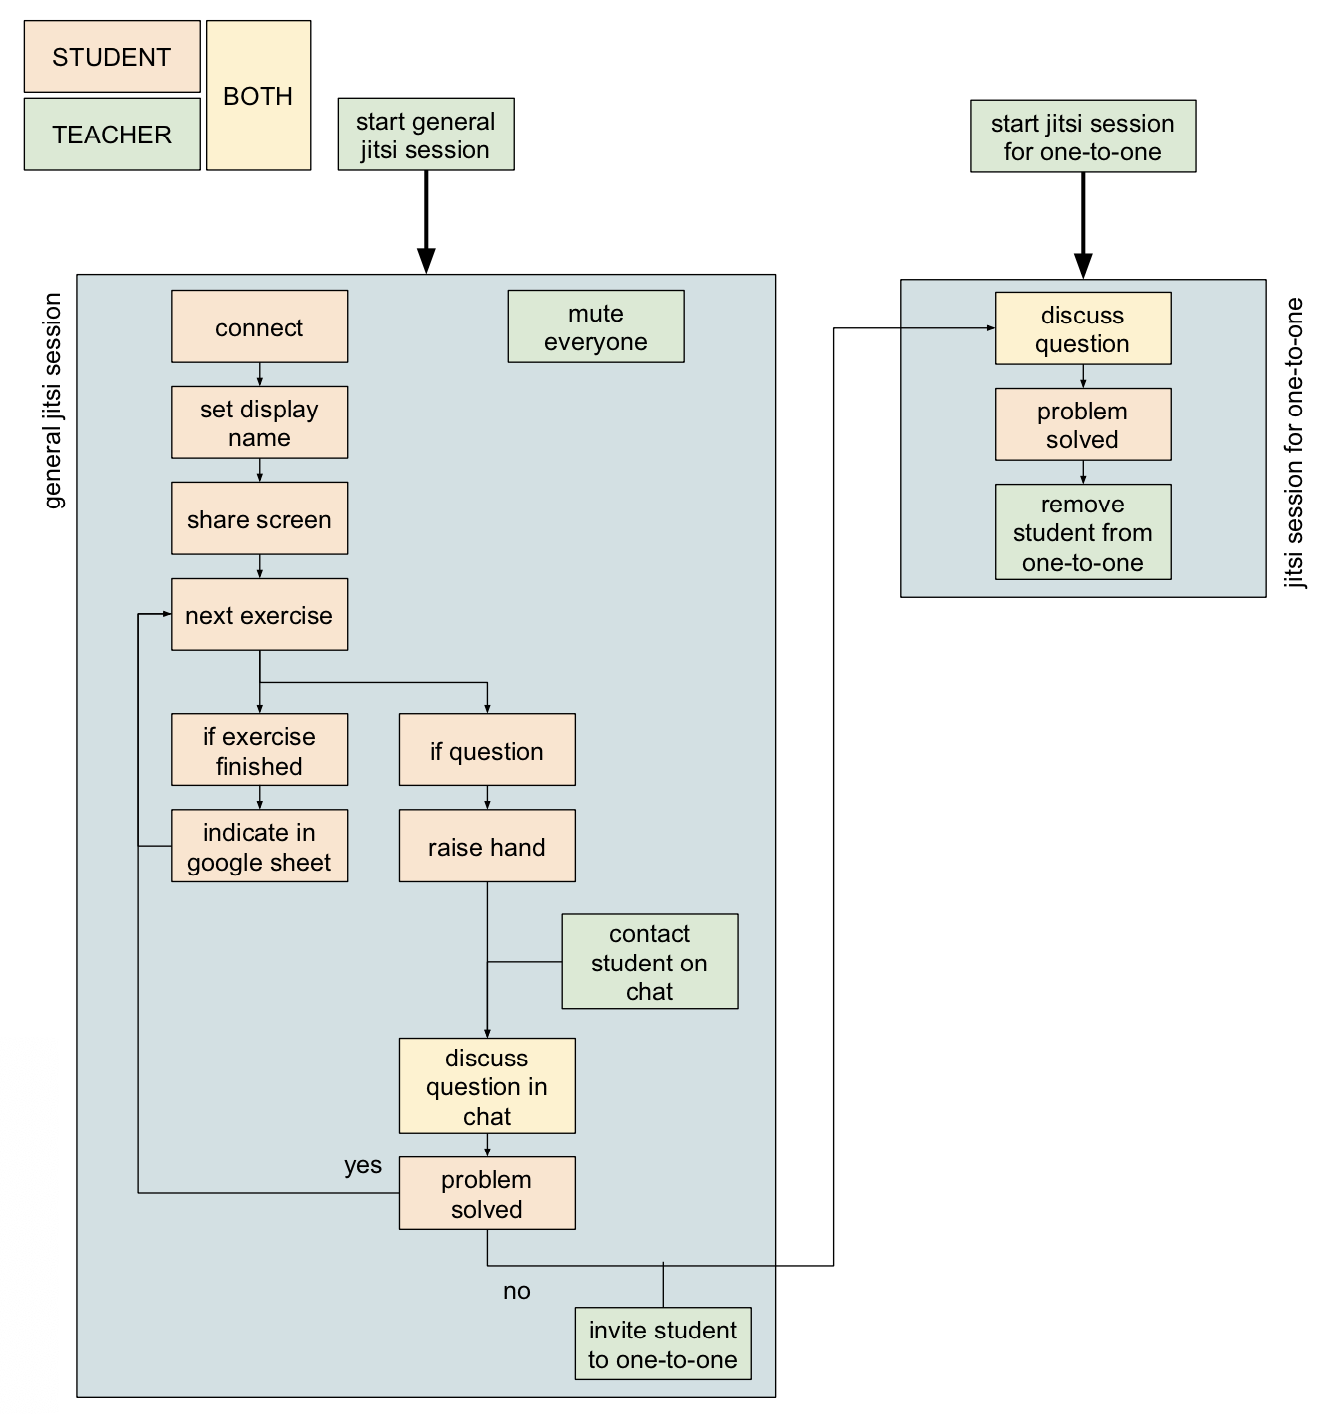
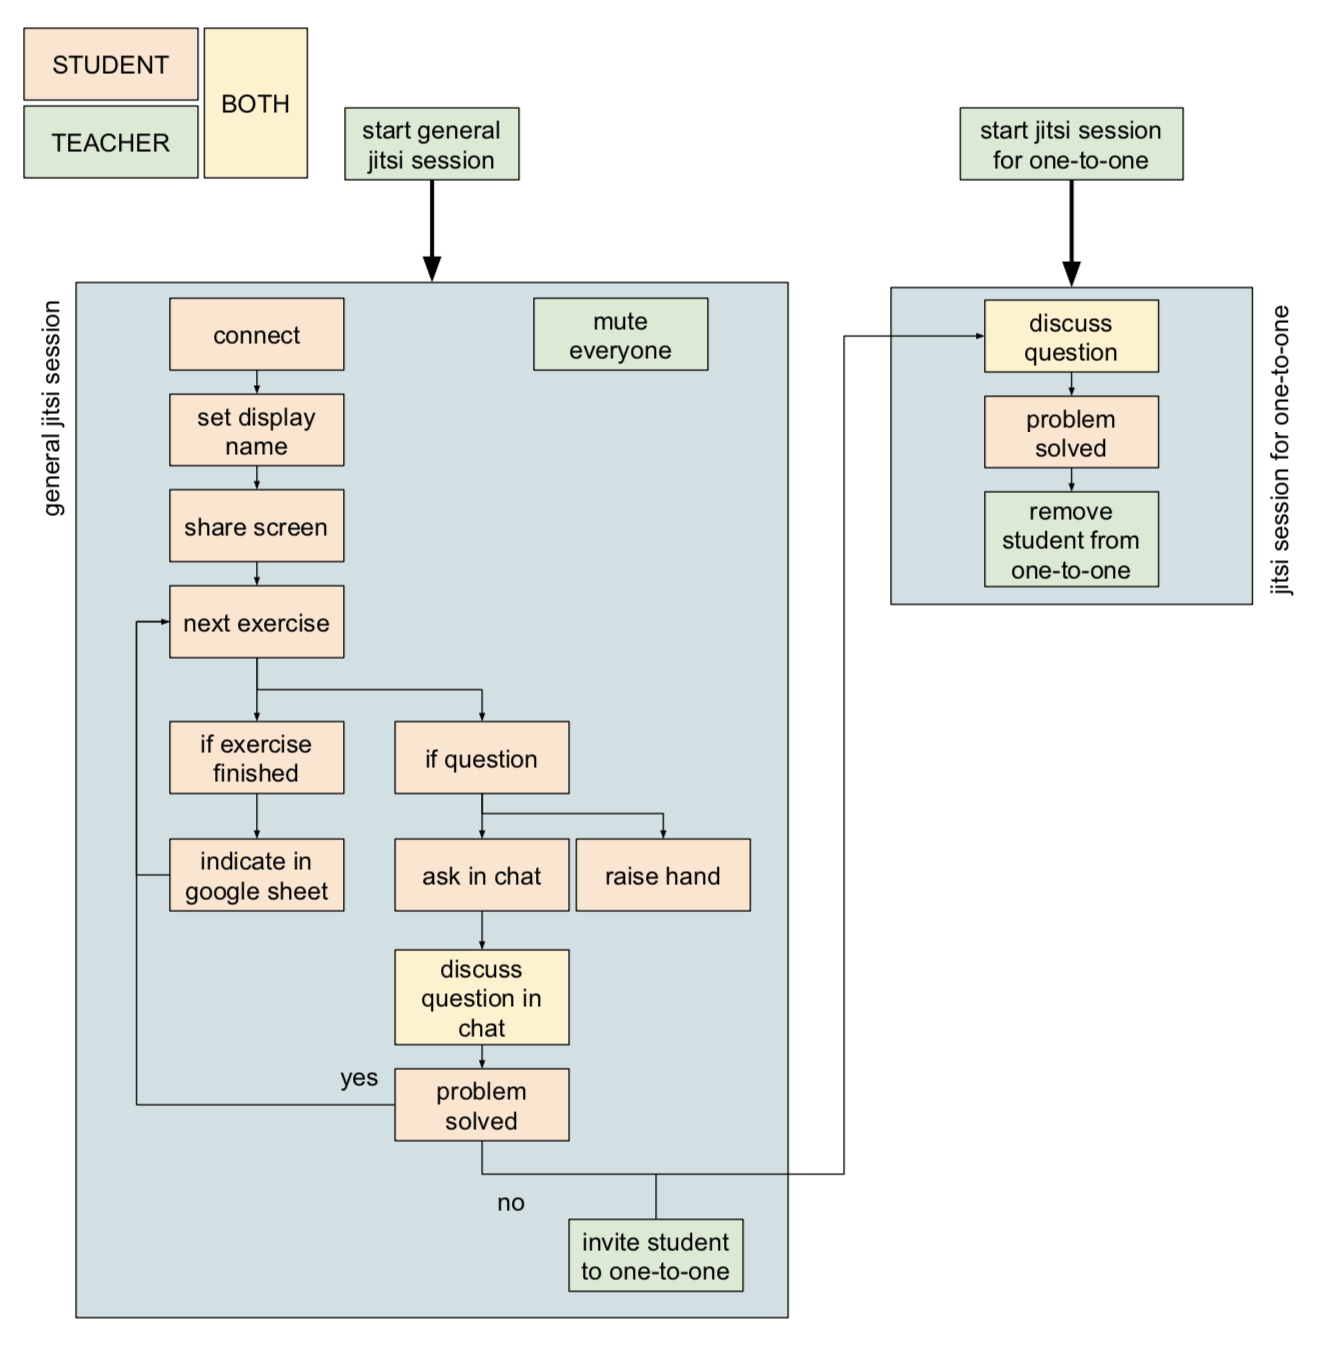
Updated jitsi post

Changed region(s): [[0.0, 0.0, 0.9939, 0.9956], [0.0932, 0.8089, 0.1242, 0.84]]

diff --git a/_posts/2020-04-01-online-exercise-sessions.md b/_posts/2020-04-01-online-exercise-sessions.md
@@ -38,20 +38,19 @@ This is what jitsi looks like:
 
 <img src="{{ site.baseurl }}/assets/jitsi-screenshot.png" width="400" />
 
-### Preparatory work
-- Get myself a good internet connection...
-- Create a **google sheet to track progress of all students across the exercises**, and share it with all students. One row per student, one column per exercise. I set auto-formatting on all cells so that they get a background colour when something is put into the cell. As students are going through the exercises, they should indicate on the sheet when each specific exercise is completed. This makes it possible to identify who is lagging behind. Towards the end of the session, you hope the sheet will look like this:
+### Our exercise session workflow
+What we need:
+- **several jitsi sessions**: one general one, and one per TA
+- a **google sheet to track progress of all students across the exercises**, and share it with all students. One row per student, one column per exercise. I set auto-formatting on all cells so that they get a background colour when something is put into the cell. As students are going through the exercises, they should indicate on the sheet when each specific exercise is completed. This makes it possible to identify who is lagging behind. Towards the end of the session, you hope the sheet will look like this:
 
 ![vega progress]({{ site.baseurl }}/assets/vega-progress.png)
 
-### During the session itself
-
-Here's the overview:
+Here's the overview of what happens during a session:
 
 ![jitsi workflow]({{ site.baseurl }}/assets/jitsi-workflow.png)
 
 - The teacher **starts a general jitsi meeting** by sharing a URL with the students like this: https://meet.jit.si/FashionableRecruitsMobilizeHalf. To start yours, just go to http://meet.jit.si to get an automatically generated URL, or just append a quite-specific string to the main URL itself. A nice consequence of how it works, is that you can re-use the same URL for every session of a given course.
-- Each member of the teaching team creates an **additional separate jitsi meeting for one-on-one discussions** with the students. Make sure to mute your sound in that one.
+- Each member of the teaching team creates an **additional separate jitsi meeting for one-on-one discussions** with the students. Make sure to mute your sound in that one at first.
 - I also **connect with an ipad** that will serve as my monitoring device for who raises their hand, etc. Sound and video switched off, and a _headphone plugged into the ipad_ so that it's silent as well.
 - Each **student connects** to the meeting, and should:
   - set their **display name** (by clicking on the 3 dots in the bottom right, then on `Settings`, and `Profile`; see the screenshot above)
@@ -61,24 +60,41 @@ Here's the overview:
 - Students start working on the exercises, and indicate in the google spreadsheet every time they finished an exercise.
 - If the teaching team sees that a **student lags a bit behind** based on the google spreadsheet, they reach out to the student in the chat window.
 - If a student has a question:
-  - they **raise their hand** using the hand icon in the bottom left.
-  - the teaching team reaches out to the student and **tries to answer the question in chat**
+  - they **raise their hand** using the hand icon in the bottom left, and
+  - they **ask the question in the chat window**
   - if chat is not enough:
     - the teacher **invites the student to the separate one-on-one meeting room**
     - all issues are resolved and the student is able to work further
     - the **student leaves the one-on-one meeting room** (or the teacher removes them)
     - the teacher can continue monitoring the main meeting room
 
-#### Best practices during the session itself
-As jitsi gives everyone quite a bit of power, it's important to have some clear guidelines. We tell the students the following:
+### Checklist
+#### Before the session
+- Get myself a good internet connection...
+- If necessary: create the Google sheet.
+- Open the **Google sheet**
+- Start a **general jitsi session**
+- Start a **separate jitsi session** for one-to-one discussions
+- **Connect with the ipad** to the general session. _Plug in a headphone, mute and turn off its camera_.
 
-- **Add your first and last name to the profile**. Click on the 3 dots in the bottom right, click settings, click profile, and set your display name.
-- **Do not mute everyone**. The teacher will do this if necessary.
-- **Do not kick other people out of a session**. The teacher will do this if necessary.
-- **Do not record the session**. This would be a grave violation of privacy.
+#### At the start of the session
+- Welcome everyone
+- Explain the **ground rules**:
+  - **Add your first and last name to the profile**. There are several ways of doing this. The easiest is to double-click on the little screen in the top right that represents you.
+  - **Do not mute everyone**. The teacher will do this if necessary.
+  - **Do not kick other people out of a session**. The teacher will do this if necessary.
+  - **Do not record the session**. This would be a grave violation of privacy.
+- **Mute everyone**, including yourself. Use the spacebar instead if you want to talk.
+- **Explain the system**, referring to this blog post:
+  - Ask everyone to **share their screens**
+  - Ask everyone to **open the google sheet**
+  - Explain that during the exercises they should **ask their questions in the chat**.
+  - Explain that they **might get invited to a separate jit.si session** for the one-on-one help.
+- Once the students have started with the exercises, mute your own microphone. Any talking will happen in the separate jit.si session.
 
-## Lessons learned
-This is what an active session looks like with 38 people when everyone is sharing their screen:
+
+## Lessons learned for the first session
+This is what our first active session looked like with 38 people when everyone was sharing their screen:
 
 ![jitsi-everyonesharingscreen]({{ site.baseurl }}/assets/jitsi-everyonesharingscreen.png)
 
@@ -86,7 +102,7 @@ The 1.5hr session worked really well. We started the session with me explaining 
 
 - **Audio and video quality were quite good** and didn't pose any real issues. Can't tell if they were better or worse than e.g. Zoom, but the difference was in any case not so big that I couldn't tell without actually starting Zoom at the same time and comparing.
 - In contrast to previous experiences in Zoom, Google Hangouts, etc, **being able to see people's screens gives us a lot of feedback** on whether they are actually working on the exercises (or even still there). The fact that we can't see exactly what they're working on is not important; it's the connectedness that counts more.
-- The **"raising your hand" if you have a question didn't really work in the way that we expected**, initially. As there were do many students, not all could fit on the screen at the same time. This meant that we had to constantly scroll up and down to search for students who had raised their hand. But...
+- The **"raising your hand" if you have a question didn't really work in the way that we expected**, initially. As there were too many students, not all could fit on the screen at the same time. This meant that we had to constantly scroll up and down to search for students who had raised their hand. But... => That is now changed in the workflow above.
 - The "raising your hand" can work in a different way. As questions were asked (and answered) in the quite active chat window, some of these questions would become hidden as they would disappear from the screen. **Raising your hand didn't work that well for catching our attention, but it was very good to make sure that you wouldn't be forgotten**.
 - The **private meetings with someone from the teaching team worked really well**. If we couldn't get something solved in the chat, we'd invite the student into a separate meeting.
 - Some students sent **private messages to the TA** to ask if they could meet in the separate room. We will discourage this in future sessions, because it gets overwhelming quickly. Also: **we want to choose who to follow up with, but looking at whose hand is raised as well as where each student is in the tutorial (i.e. looking at the spreadsheet)**.
